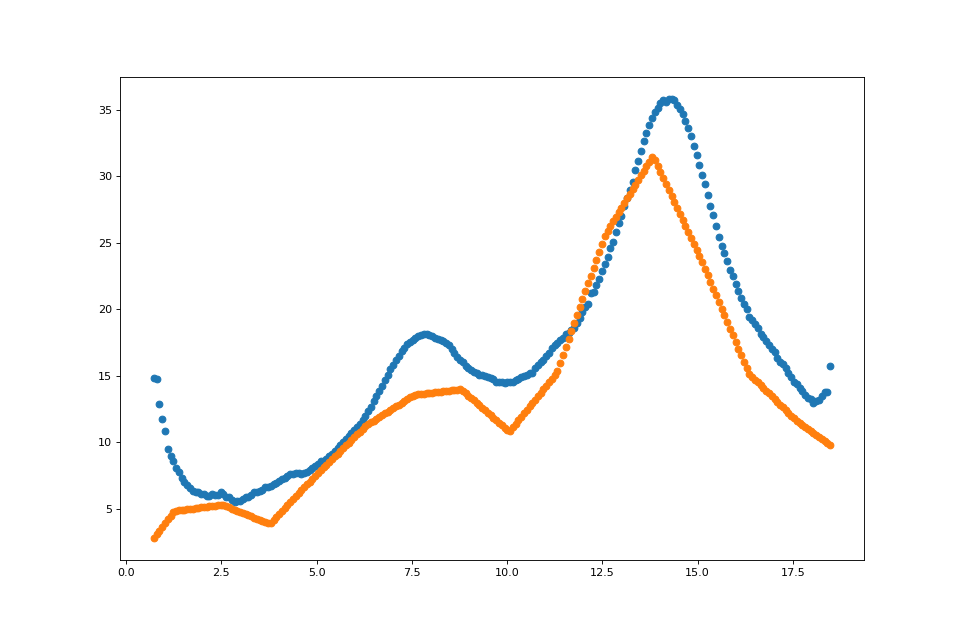
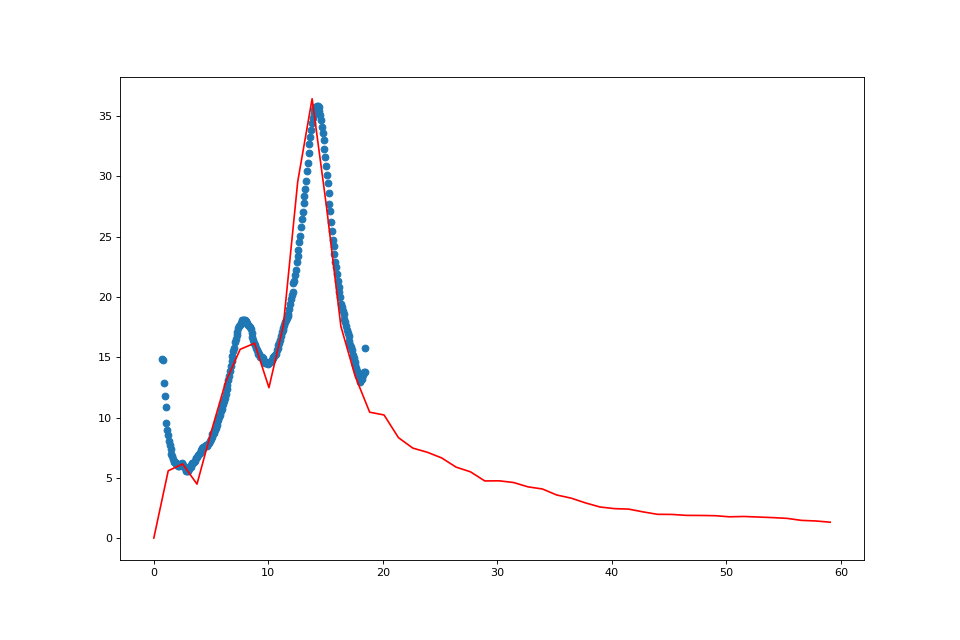
Finally understood the exercise

diff --git a/day4_exercises/scipy_opt.py b/day4_exercises/scipy_opt.py
@@ -8,26 +8,39 @@ Created on Fri Mar 10 14:36:05 2023
 
 import numpy as np
 import matplotlib.pyplot as plt
-from scipy.optimize import minimize
+from scipy.optimize import minimize_scalar
 from scipy.interpolate import interp1d
 from sklearn.metrics import mean_squared_error
 
+#Load data
 exp_data = np.load('I_q_IPA_exp.npy')
 model = np.load('I_q_IPA_model.npy')
 
-
+#Filter out nans
 exp_data = exp_data[~np.isnan(exp_data[:, 1])]
 
-model_x = interp1d(model[:, 0], model[:, 1])
+#Make interpolations for both the data and the model
+model_int = interp1d(model[:, 0], model[:, 1])
+exp_int = interp1d(exp_data[:, 0], exp_data[:, 1])
 
-new_y = model_x(exp_data[:, 0])
+#Make a new x so that both new y have the same length
+new_x = np.linspace(min(exp_data[:, 0]), max(exp_data[:, 0]), 250)
 
+#Calculate new y
+new_model_y = model_int(new_x)
+new_exp_y = exp_int(new_x)
 
-new_model = minimize(mean_squared_error, exp_data[:, 1], args = (new_y,))
+#Define mse function using in-built mse function
+def mse(x):
+    return mean_squared_error(new_exp_y, new_model_y*x)
 
+#Minimize scaling factor
+scalar = minimize_scalar(mse)
+
+#Plot results
 plt.figure(figsize=(12, 8), dpi=80)
 plt.scatter(exp_data[:, 0], exp_data[:, 1])
-plt.scatter(exp_data[:, 0], new_model.x/10**4)
+plt.plot(model[:, 0], model[:,1]*scalar.x, "r-")
 
 plt.savefig('approximation.png')
 
